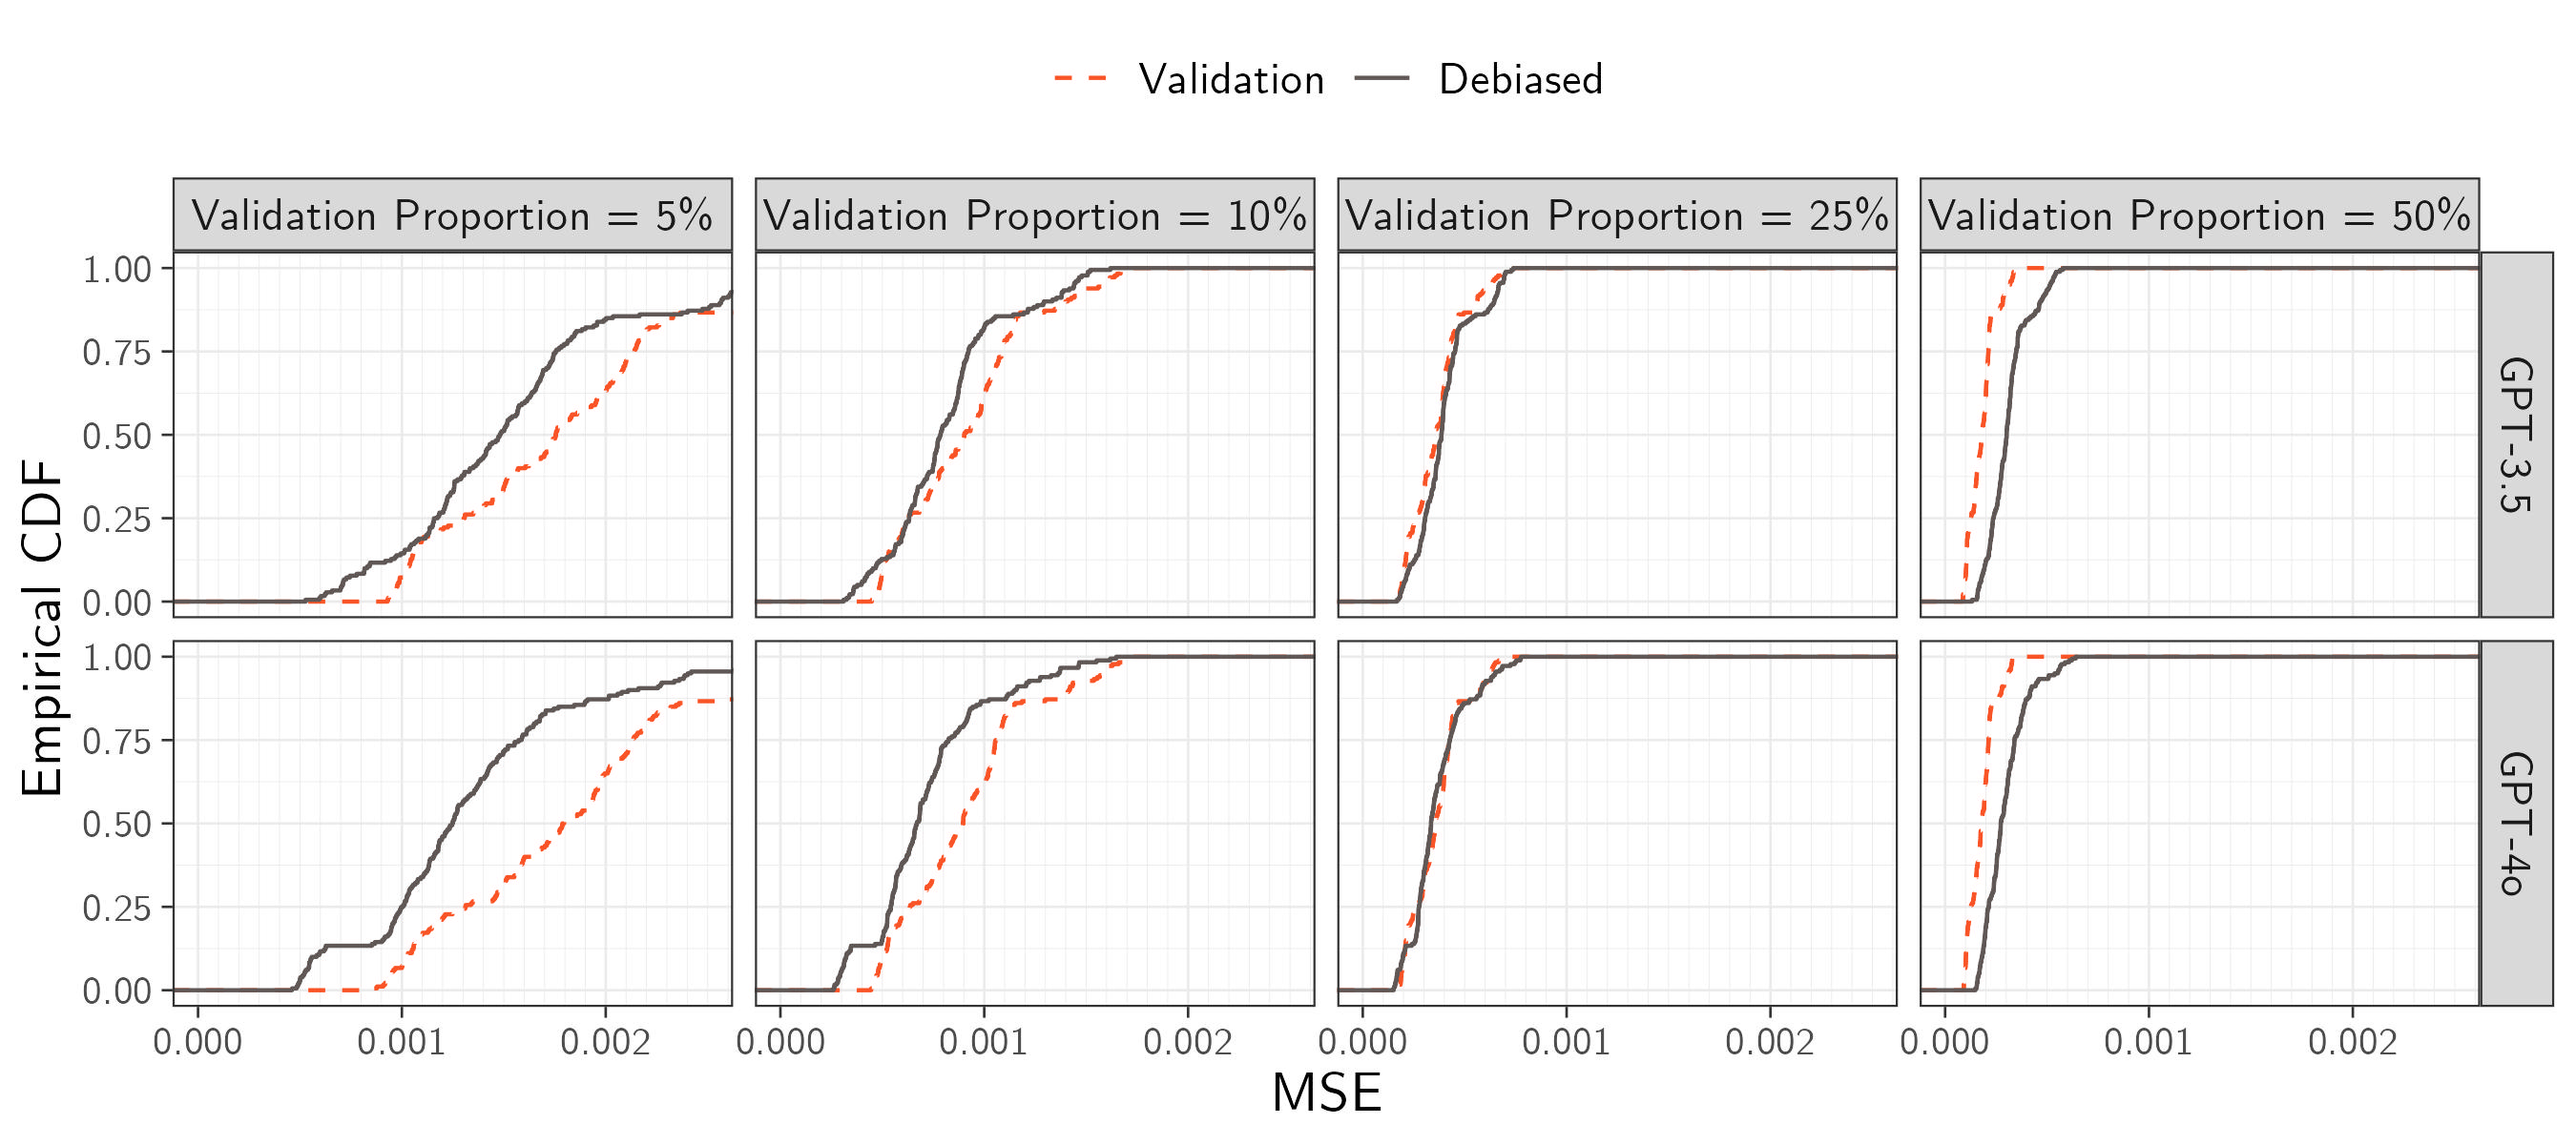
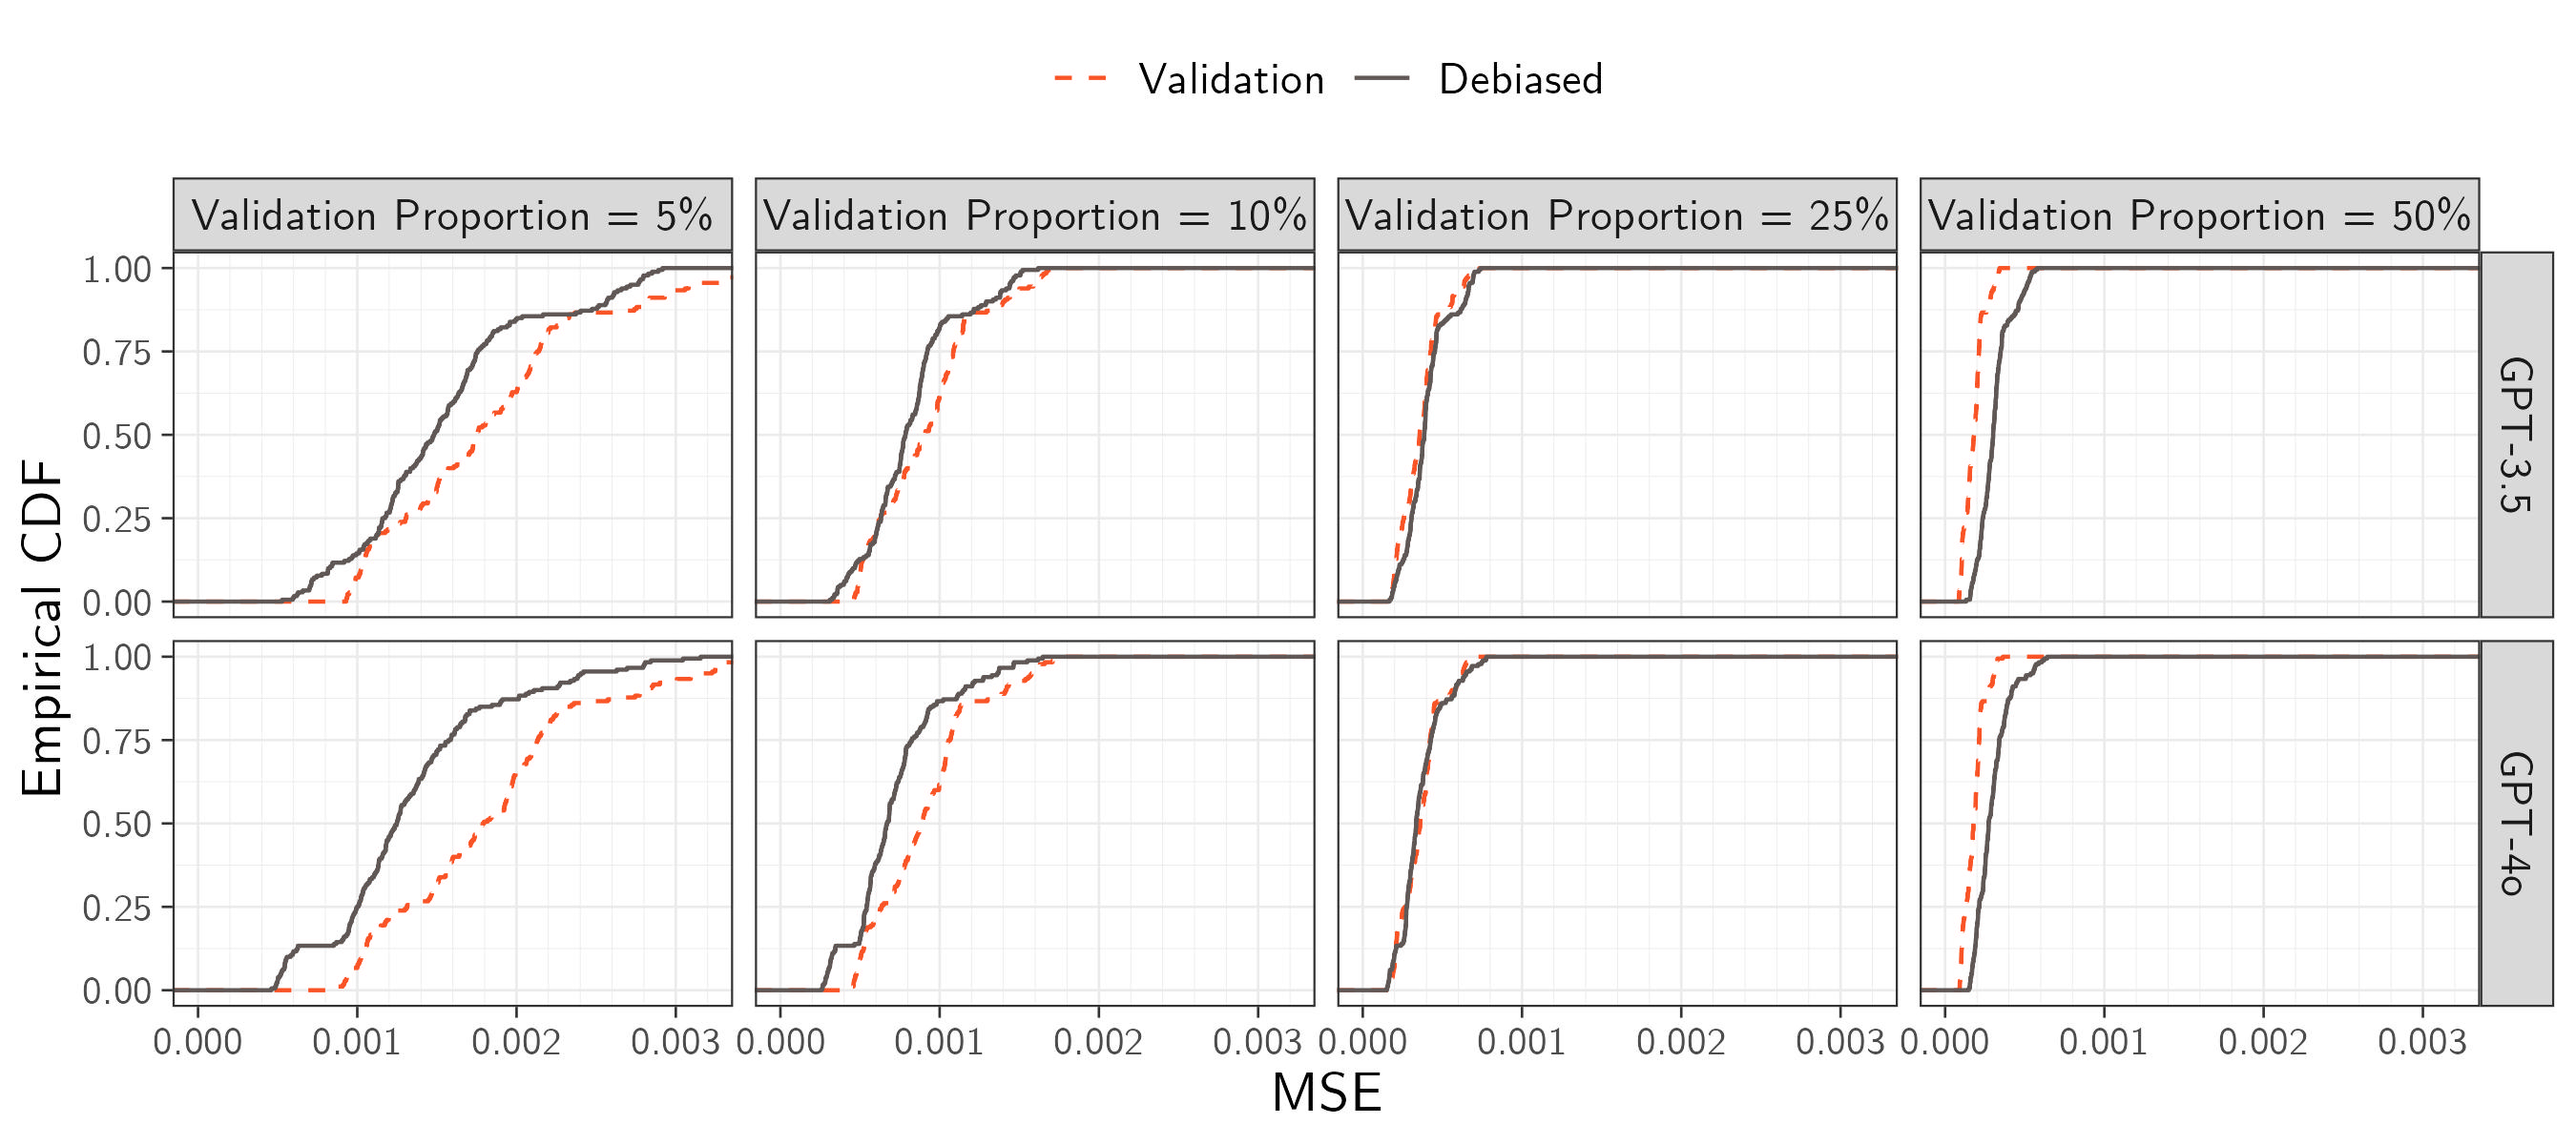
[CB] Added 5 percent figures and tables

diff --git a/tables/outputs/cb/tab_summary_stat_gpt3_cb_lhs_prop10.tex b/tables/outputs/cb/tab_summary_stat_gpt3_cb_lhs_prop10.tex
@@ -1,13 +1,15 @@
-\begin{tabular}[t]{r|rrr}
-\toprule 
-& Median & 5\% & 95\% \\
+\begin{tabular}{r|rrr}
+\toprule
+  & Median & 5\% & 95\%\\
 \midrule
-\multicolumn{1}{l|}{\textit{Normalized Bias}} \\
-Plug-In & -0.005 & -1.863 & 2.179 \\ 
-Debiased & -0.005 & -0.053 & 0.049 \\
-\midrule 
-\multicolumn{1}{l|}{\textit{Coverage}} \\
-Plug-In & 0.812 & 0.383 & 0.949 \\
-Debiased & 0.941 & 0.927 & 0.952 \\
+\multicolumn{1}{l|}{\textit{Normalized Bias}}\\
+Plug-In & -0.005 & -1.863 & 2.179\\
+Debiased & -0.005 & -0.053 & 0.049\\
+\midrule
+%\\
+\multicolumn{1}{l|}{\textit{Coverage}}\\
+Plug-In & 0.812 & 0.383 & 0.949\\
+Debiased & 0.941 & 0.927 & 0.952\\
 \bottomrule
 \end{tabular}
+

diff --git a/tables/outputs/cb/tab_summary_stat_gpt3_cb_lhs_prop05.tex b/tables/outputs/cb/tab_summary_stat_gpt3_cb_lhs_prop05.tex
@@ -3,13 +3,13 @@
   & Median & 5\% & 95\%\\
 \midrule
 \multicolumn{1}{l|}{\textit{Normalized Bias}}\\
-Plug-In & 0.059 & -1.447 & 1.507\\
-Debiased & 0.000 & -0.066 & 0.050\\
+Plug-In & -0.023 & -1.899 & 2.211\\
+Debiased & 0.001 & -0.055 & 0.066\\
 \midrule
 %\\
 \multicolumn{1}{l|}{\textit{Coverage}}\\
-Plug-In & 0.919 & 0.642 & 0.952\\
-Debiased & 0.941 & 0.926 & 0.953\\
+Plug-In & 0.819 & 0.381 & 0.945\\
+Debiased & 0.931 & 0.910 & 0.945\\
 \bottomrule
 \end{tabular}
 

diff --git a/tables/outputs/cb/tab_summary_stat_gpt4o_cb_rhs_prop05.tex b/tables/outputs/cb/tab_summary_stat_gpt4o_cb_rhs_prop05.tex
@@ -3,13 +3,13 @@
   & Median & 5\% & 95\%\\
 \midrule
 \multicolumn{1}{l|}{\textit{Normalized Bias}}\\
-Plug-In & 0.059 & -1.447 & 1.507\\
-Debiased & 0.000 & -0.066 & 0.050\\
+Plug-In & 0.042 & -1.146 & 1.558\\
+Debiased & -0.003 & -0.063 & 0.053\\
 \midrule
 %\\
 \multicolumn{1}{l|}{\textit{Coverage}}\\
-Plug-In & 0.919 & 0.642 & 0.952\\
-Debiased & 0.941 & 0.926 & 0.953\\
+Plug-In & 0.929 & 0.640 & 0.957\\
+Debiased & 0.931 & 0.900 & 0.952\\
 \bottomrule
 \end{tabular}
 

diff --git a/tables/outputs/cb/tab_summary_stat_gpt3_cb_rhs_prop05.tex b/tables/outputs/cb/tab_summary_stat_gpt3_cb_rhs_prop05.tex
@@ -3,13 +3,13 @@
   & Median & 5\% & 95\%\\
 \midrule
 \multicolumn{1}{l|}{\textit{Normalized Bias}}\\
-Plug-In & 0.059 & -1.447 & 1.507\\
-Debiased & 0.000 & -0.066 & 0.050\\
+Plug-In & 0.144 & -1.514 & 2.083\\
+Debiased & 0.002 & -0.051 & 0.060\\
 \midrule
 %\\
 \multicolumn{1}{l|}{\textit{Coverage}}\\
-Plug-In & 0.919 & 0.642 & 0.952\\
-Debiased & 0.941 & 0.926 & 0.953\\
+Plug-In & 0.897 & 0.363 & 0.950\\
+Debiased & 0.933 & 0.911 & 0.956\\
 \bottomrule
 \end{tabular}
 

diff --git a/tables/outputs/cb/tab_summary_stat_gpt4o_cb_lhs_prop05.tex b/tables/outputs/cb/tab_summary_stat_gpt4o_cb_lhs_prop05.tex
@@ -3,13 +3,13 @@
   & Median & 5\% & 95\%\\
 \midrule
 \multicolumn{1}{l|}{\textit{Normalized Bias}}\\
-Plug-In & 0.059 & -1.447 & 1.507\\
-Debiased & 0.000 & -0.066 & 0.050\\
+Plug-In & 0.084 & -1.411 & 1.514\\
+Debiased & 0.001 & -0.055 & 0.054\\
 \midrule
 %\\
 \multicolumn{1}{l|}{\textit{Coverage}}\\
-Plug-In & 0.919 & 0.642 & 0.952\\
-Debiased & 0.941 & 0.926 & 0.953\\
+Plug-In & 0.921 & 0.637 & 0.954\\
+Debiased & 0.927 & 0.902 & 0.945\\
 \bottomrule
 \end{tabular}
 

diff --git a/tables/outputs/cb/tab_summary_stat_gpt3_cb_rhs_prop10.tex b/tables/outputs/cb/tab_summary_stat_gpt3_cb_rhs_prop10.tex
@@ -1,13 +1,15 @@
-\begin{tabular}[t]{r|ccc}
+\begin{tabular}{r|rrr}
 \toprule
- & Median & 5\% & 95\%\\
+  & Median & 5\% & 95\%\\
 \midrule
 \multicolumn{1}{l|}{\textit{Normalized Bias}}\\
 Plug-In & 0.147 & -1.437 & 2.099\\
 Debiased & -0.002 & -0.055 & 0.057\\
 \midrule
+%\\
 \multicolumn{1}{l|}{\textit{Coverage}}\\
 Plug-In & 0.897 & 0.353 & 0.949\\
 Debiased & 0.941 & 0.927 & 0.954\\
 \bottomrule
 \end{tabular}
+

diff --git a/tables/outputs/cb/tab_summary_stat_gpt4o_cb_rhs_prop10.tex b/tables/outputs/cb/tab_summary_stat_gpt4o_cb_rhs_prop10.tex
@@ -1,13 +1,15 @@
-\begin{tabular}[t]{r|ccc}
+\begin{tabular}{r|rrr}
 \toprule
- & Median & 5\% & 95\%\\
+  & Median & 5\% & 95\%\\
 \midrule
 \multicolumn{1}{l|}{\textit{Normalized Bias}}\\
 Plug-In & 0.024 & -1.118 & 1.624\\
 Debiased & -0.001 & -0.059 & 0.055\\
 \midrule
+%\\
 \multicolumn{1}{l|}{\textit{Coverage}}\\
 Plug-In & 0.927 & 0.642 & 0.952\\
 Debiased & 0.943 & 0.928 & 0.952\\
 \bottomrule
 \end{tabular}
+
